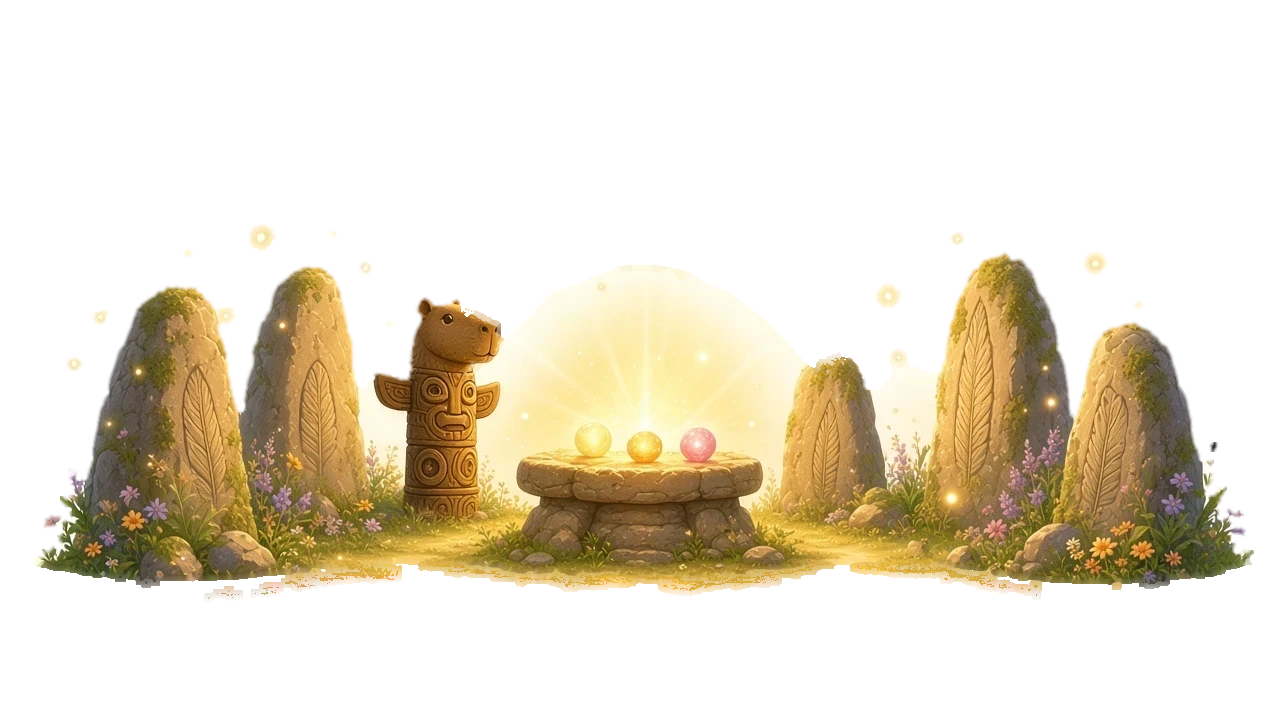
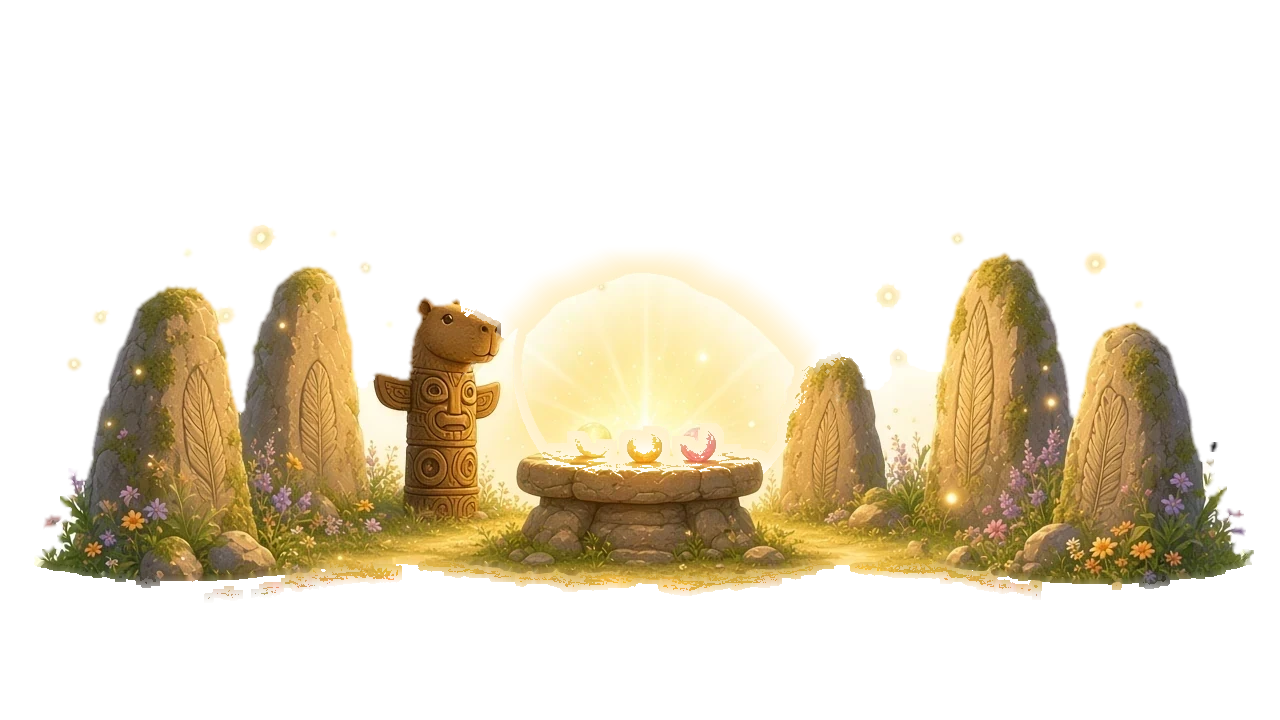
Seat the pantry puzzle at Capy's height and soften the Éveil halo.
The room camera was framing the whole painted plate, so the crates sat in a strip on the floor. The halo rim was a one-pixel step; it now falls off in gold from an eroded disc.

Changed region(s): [[0.375, 0.3361, 0.6562, 0.5194], [0.4062, 0.5806, 0.5938, 0.6722], [0.5938, 0.55, 0.625, 0.5806]]

diff --git a/src/game/render/painted.ts b/src/game/render/painted.ts
@@ -560,27 +560,22 @@ export class PaintedBackdrop {
   }
 
   /**
-   * The pantry painting is a whole room: window, shelves, table, and the floor
-   * the puzzle sits on. Frame that height, and keep the crates-to-feather run
-   * inside the view on a tablet and a phone.
+   * The pantry plate is a tall room. Framing all of it shrinks Capy (idle
+   * sprite 1.68) and the puzzle into a strip on the floor. Keep the floor in
+   * the lower third and follow the run from the crates to the feather.
    */
   private roomFrame(aspect: number, focusX: number): { x: number; y: number; distance: number } {
-    const cover = imageCover(this.span, this.groundY, GRASS_FRAC[this.scene], this.centerX);
     const halfFov = Math.tan((14 * Math.PI) / 180);
     const safeAspect = Math.max(0.9, aspect);
-    let distance = ((cover.top - cover.bottom) * 0.49) / halfFov;
-    const maxHalfW = this.span / 2 + 3.6;
-    const halfW = () => halfFov * distance * safeAspect;
-    if (halfW() > maxHalfW) distance *= maxHalfW / halfW();
-    const viewHalf = halfW();
-    const contentLeft = -9.3;
-    const contentRight = 8.3;
+    const distance = 17.6;
+    const viewHalf = halfFov * distance * safeAspect;
+    const contentLeft = -7.4;
+    const contentRight = 8.2;
     const lo = contentRight - viewHalf;
     const hi = contentLeft + viewHalf;
-    let x = -1.15 + (focusX + 1.15) * 0.08;
+    let x = focusX + 0.35;
     x = lo <= hi ? Math.min(hi, Math.max(lo, x)) : (contentLeft + contentRight) / 2;
-    const lookY = (cover.top + cover.bottom) / 2;
-    return { x, y: lookY - 0.78, distance };
+    return { x, y: 1.15, distance };
   }
 
   sync(camera: THREE.PerspectiveCamera, dt = 0.016, still = false): void {

diff --git a/scripts/finish-art.py b/scripts/finish-art.py
@@ -26,6 +26,7 @@ TOUCHUP = "finish-art-2"
 SUN = "finish-art-3"
 FRINGE = "finish-art-4"
 LIP = "finish-art-5"
+HALO = "finish-art-6"
 ART_W = 1280
 ART_H = 720
 
@@ -321,6 +322,51 @@ def feather_halo(arr: np.ndarray) -> np.ndarray:
     return painted
 
 
+def erode(mask: np.ndarray, radius: int) -> np.ndarray:
+    return ~dilate(~mask, radius)
+
+
+def radial_halo(arr: np.ndarray) -> np.ndarray:
+    """Soft gold falloff around the Éveil disc. The rim is a one-pixel step."""
+    out = arr.copy()
+    rgb = out[:, :, :3].astype(np.float32)
+    alpha = out[:, :, 3]
+    lum = rgb.mean(axis=2)
+    height, width = alpha.shape
+    yy, xx = np.mgrid[0:height, 0:width]
+    seed = (lum > 230) & (alpha > 240) & (yy > 200) & (yy < 480) & (xx > 250) & (xx < 1050)
+    if not seed.any():
+        return out
+    cy = float(yy[seed].mean())
+    cx = float(xx[seed].mean())
+    radius = np.hypot(xx - cx, yy - cy)
+    core = (radius < 148) & (lum > 185) & (alpha > 140)
+    inner = erode(core, 8)
+    if not inner.any():
+        return out
+    dist = np.full(alpha.shape, 999, np.int16)
+    dist[inner] = 0
+    current = inner
+    reach = 30
+    for step in range(1, reach + 1):
+        grown = dilate(current, 1)
+        dist[grown & ~current] = step
+        current = grown
+    band = (dist > 0) & (dist <= reach) & (radius < 148 + reach) & ((alpha < 48) | core)
+    t = 1.0 - dist.astype(np.float32) / reach
+    t = t * t * (3.0 - 2.0 * t)
+    gold = np.array([255.0, 236.0, 186.0], dtype=np.float32)
+    out[:, :, :3][band] = gold
+    out[:, :, 3][band] = np.clip(t[band] * 200, 0, 200).astype(np.uint8)
+    return out
+
+
+def soften_eveil_halo(root: Path) -> None:
+    path = root / "scenes" / "eveil" / "mid.webp"
+    save(path, radial_halo(load(path)))
+    print("softened eveil/mid halo")
+
+
 def soften_fringe(root: Path) -> None:
     camp = root / "scenes" / "camp-des-nuages" / "mid.webp"
     save(camp, clear_dark_fringe(load(camp)))
@@ -418,9 +464,24 @@ def main() -> None:
     parser.add_argument("--touchup", action="store_true", help="Lawn, parade grain, and sun core on a finish-art-1 tree")
     parser.add_argument("--sun", action="store_true", help="Pull the remaining pale Éveil core to gold")
     parser.add_argument("--fringe", action="store_true", help="Clear the camp fringe, feather the Éveil halo, and fade the glands grass lip")
+    parser.add_argument("--halo", action="store_true", help="Replace the hard Éveil disc rim with a radial gold falloff")
     args = parser.parse_args()
     root = Path(args.root)
     stamp_path = root / "finish.json"
+    if args.halo:
+        if not stamp_path.exists():
+            raise SystemExit("No finish.json. Run the full finish first.")
+        stamp = json.loads(stamp_path.read_text())
+        version = stamp.get("version")
+        if version == HALO:
+            print("halo already softened")
+            return
+        if version != LIP:
+            raise SystemExit(f"Refusing halo pass on stamp {version}.")
+        soften_eveil_halo(root)
+        stamp["version"] = HALO
+        stamp_path.write_text(json.dumps(stamp, indent=2) + "\n")
+        return
     if args.fringe:
         if not stamp_path.exists():
             raise SystemExit("No finish.json. Run the full finish first.")
